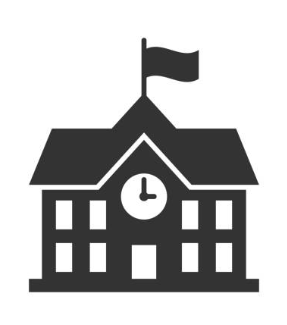
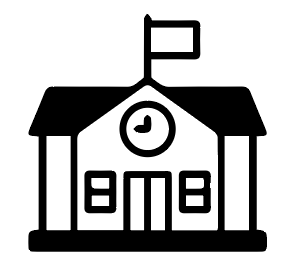
navigatie

diff --git a/Proposal2/humaniora.html b/Proposal2/humaniora.html
@@ -20,7 +20,7 @@
 					</a>
 				</div>
 				<div class="dropdown">
-					<img src="images/foto_vraagteken.png" />
+					<img src="images/foto_WieWij_wb.png" />
 					<span>Wie zijn we?</span>
 					<div class="dropdown-content">
 						<a href="wieIsWie.html">Wie is wie</a>
@@ -32,7 +32,7 @@
 				</div>
 	
 				<div class="dropdown">
-					<img src="images/foto_handjes.png" />
+					<img src="images/Foto_Waarom_wb.png" />
 					<span>Waarom Hiel?</span>
 					<div class="dropdown-content">
 						<a href="Schoolviesie.html">School visie</a>

diff --git a/Proposal2/index.html b/Proposal2/index.html
@@ -20,7 +20,7 @@
 					</a>
 				</div>
 				<div class="dropdown">
-					<img src="images/foto_vraagteken.png" />
+					<img src="images/foto_WieWij_wb.png" />
 					<span>Wie zijn we?</span>
 					<div class="dropdown-content">
 						<a href="wieIsWie.html">Wie is wie</a>
@@ -32,7 +32,7 @@
 				</div>
 	
 				<div class="dropdown">
-					<img src="images/foto_handjes.png" />
+					<img src="images/foto_waarom.png" />
 					<span>Waarom Hiel?</span>
 					<div class="dropdown-content">
 						<a href="Schoolviesie.html">School visie</a>

diff --git a/Proposal2/Contact.html b/Proposal2/Contact.html
@@ -20,7 +20,7 @@
 					</a>
 				</div>
 				<div class="dropdown">
-					<img src="images/foto_vraagteken.png" />
+					<img src="images/foto_WieWij.png" />
 					<span>Wie zijn we?</span>
 					<div class="dropdown-content">
 						<a href="wieIsWie.html">Wie is wie</a>
@@ -32,7 +32,7 @@
 				</div>
 	
 				<div class="dropdown">
-					<img src="images/foto_handjes.png" />
+					<img src="images/foto_waarom.png" />
 					<span>Waarom Hiel?</span>
 					<div class="dropdown-content">
 						<a href="Schoolviesie.html">School visie</a>

diff --git a/Proposal2/Go.html b/Proposal2/Go.html
@@ -20,7 +20,7 @@
 					</a>
 				</div>
 				<div class="dropdown">
-					<img src="images/foto_vraagteken.png" />
+					<img src="images/foto_WieWij.png" />
 					<span>Wie zijn we?</span>
 					<div class="dropdown-content">
 						<a href="wieIsWie.html">Wie is wie</a>
@@ -32,7 +32,7 @@
 				</div>
 	
 				<div class="dropdown">
-					<img src="images/foto_handjes.png" />
+					<img src="images/foto_waarom.png" />
 					<span>Waarom Hiel?</span>
 					<div class="dropdown-content">
 						<a href="Schoolviesie.html">School visie</a>

diff --git a/Proposal2/HoeWanneer.html b/Proposal2/HoeWanneer.html
@@ -20,7 +20,7 @@
 					</a>
 				</div>
 				<div class="dropdown">
-					<img src="images/foto_vraagteken.png" />
+					<img src="images/foto_WieWij.png" />
 					<span>Wie zijn we?</span>
 					<div class="dropdown-content">
 						<a href="wieIsWie.html">Wie is wie</a>
@@ -32,7 +32,7 @@
 				</div>
 	
 				<div class="dropdown">
-					<img src="images/foto_handjes.png" />
+					<img src="images/foto_waarom.png" />
 					<span>Waarom Hiel?</span>
 					<div class="dropdown-content">
 						<a href="Schoolviesie.html">School visie</a>

diff --git a/Proposal2/Schoolviesie.html b/Proposal2/Schoolviesie.html
@@ -20,7 +20,7 @@
 					</a>
 				</div>
 				<div class="dropdown">
-					<img src="images/foto_vraagteken.png" />
+					<img src="images/foto_WieWij.png" />
 					<span>Wie zijn we?</span>
 					<div class="dropdown-content">
 						<a href="wieIsWie.html">Wie is wie</a>
@@ -32,7 +32,7 @@
 				</div>
 	
 				<div class="dropdown">
-					<img src="images/foto_handjes.png" />
+					<img src="images/foto_waarom.png" />
 					<span>Waarom Hiel?</span>
 					<div class="dropdown-content">
 						<a href="Schoolviesie.html">School visie</a>

diff --git a/Proposal2/StudieAanbod.html b/Proposal2/StudieAanbod.html
@@ -20,7 +20,7 @@
 					</a>
 				</div>
 				<div class="dropdown">
-					<img src="images/foto_vraagteken.png" />
+					<img src="images/foto_WieWij.png" />
 					<span>Wie zijn we?</span>
 					<div class="dropdown-content">
 						<a href="wieIsWie.html">Wie is wie</a>
@@ -32,7 +32,7 @@
 				</div>
 	
 				<div class="dropdown">
-					<img src="images/foto_handjes.png" />
+					<img src="images/foto_waarom.png" />
 					<span>Waarom Hiel?</span>
 					<div class="dropdown-content">
 						<a href="Schoolviesie.html">School visie</a>

diff --git a/Proposal2/hospiteerLessen.html b/Proposal2/hospiteerLessen.html
@@ -20,7 +20,7 @@
 					</a>
 				</div>
 				<div class="dropdown">
-					<img src="images/foto_vraagteken.png" />
+					<img src="images/foto_WieWij.png" />
 					<span>Wie zijn we?</span>
 					<div class="dropdown-content">
 						<a href="wieIsWie.html">Wie is wie</a>
@@ -32,7 +32,7 @@
 				</div>
 	
 				<div class="dropdown">
-					<img src="images/foto_handjes.png" />
+					<img src="images/foto_waarom.png" />
 					<span>Waarom Hiel?</span>
 					<div class="dropdown-content">
 						<a href="Schoolviesie.html">School visie</a>

diff --git a/Proposal2/infoAvond.html b/Proposal2/infoAvond.html
@@ -20,7 +20,7 @@
 					</a>
 				</div>
 				<div class="dropdown">
-					<img src="images/foto_vraagteken.png" />
+					<img src="images/foto_WieWij.png" />
 					<span>Wie zijn we?</span>
 					<div class="dropdown-content">
 						<a href="wieIsWie.html">Wie is wie</a>
@@ -32,7 +32,7 @@
 				</div>
 	
 				<div class="dropdown">
-					<img src="images/foto_handjes.png" />
+					<img src="images/foto_waarom.png" />
 					<span>Waarom Hiel?</span>
 					<div class="dropdown-content">
 						<a href="Schoolviesie.html">School visie</a>

diff --git a/Proposal2/infrastructuur.html b/Proposal2/infrastructuur.html
@@ -20,7 +20,7 @@
 					</a>
 				</div>
 				<div class="dropdown">
-					<img src="images/foto_vraagteken.png" />
+					<img src="images/foto_WieWij.png" />
 					<span>Wie zijn we?</span>
 					<div class="dropdown-content">
 						<a href="wieIsWie.html">Wie is wie</a>
@@ -32,7 +32,7 @@
 				</div>
 	
 				<div class="dropdown">
-					<img src="images/foto_handjes.png" />
+					<img src="images/foto_waarom.png" />
 					<span>Waarom Hiel?</span>
 					<div class="dropdown-content">
 						<a href="Schoolviesie.html">School visie</a>

diff --git a/Proposal2/leefRegels.html b/Proposal2/leefRegels.html
@@ -20,7 +20,7 @@
 					</a>
 				</div>
 				<div class="dropdown">
-					<img src="images/foto_vraagteken.png" />
+					<img src="images/foto_WieWij.png" />
 					<span>Wie zijn we?</span>
 					<div class="dropdown-content">
 						<a href="wieIsWie.html">Wie is wie</a>
@@ -32,7 +32,7 @@
 				</div>
 	
 				<div class="dropdown">
-					<img src="images/foto_handjes.png" />
+					<img src="images/foto_waarom.png" />
 					<span>Waarom Hiel?</span>
 					<div class="dropdown-content">
 						<a href="Schoolviesie.html">School visie</a>

diff --git a/Proposal2/maximumFactuur.html b/Proposal2/maximumFactuur.html
@@ -20,7 +20,7 @@
 					</a>
 				</div>
 				<div class="dropdown">
-					<img src="images/foto_vraagteken.png" />
+					<img src="images/foto_WieWij.png" />
 					<span>Wie zijn we?</span>
 					<div class="dropdown-content">
 						<a href="wieIsWie.html">Wie is wie</a>
@@ -32,7 +32,7 @@
 				</div>
 	
 				<div class="dropdown">
-					<img src="images/foto_handjes.png" />
+					<img src="images/foto_waarom.png" />
 					<span>Waarom Hiel?</span>
 					<div class="dropdown-content">
 						<a href="Schoolviesie.html">School visie</a>
